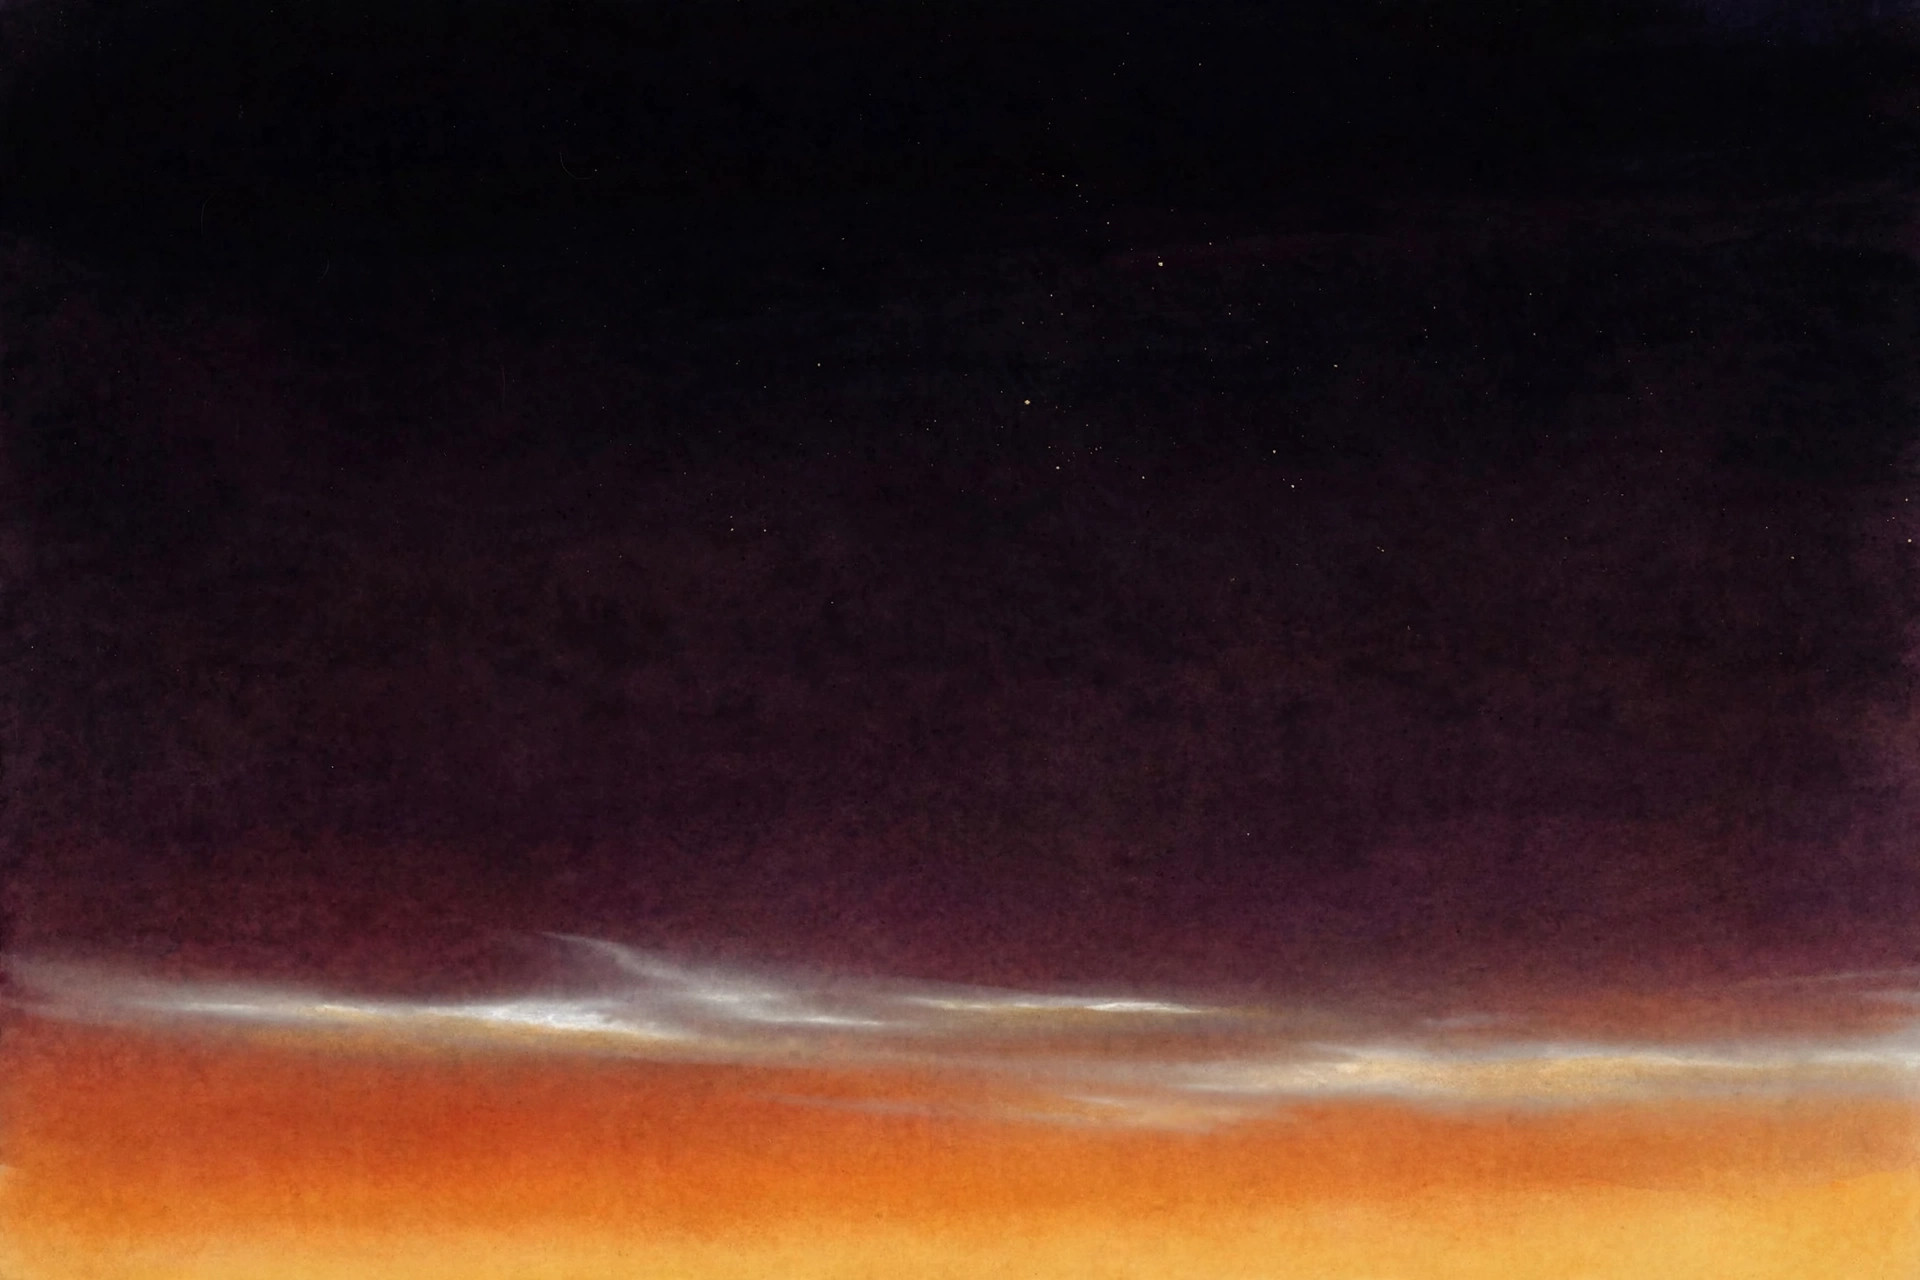
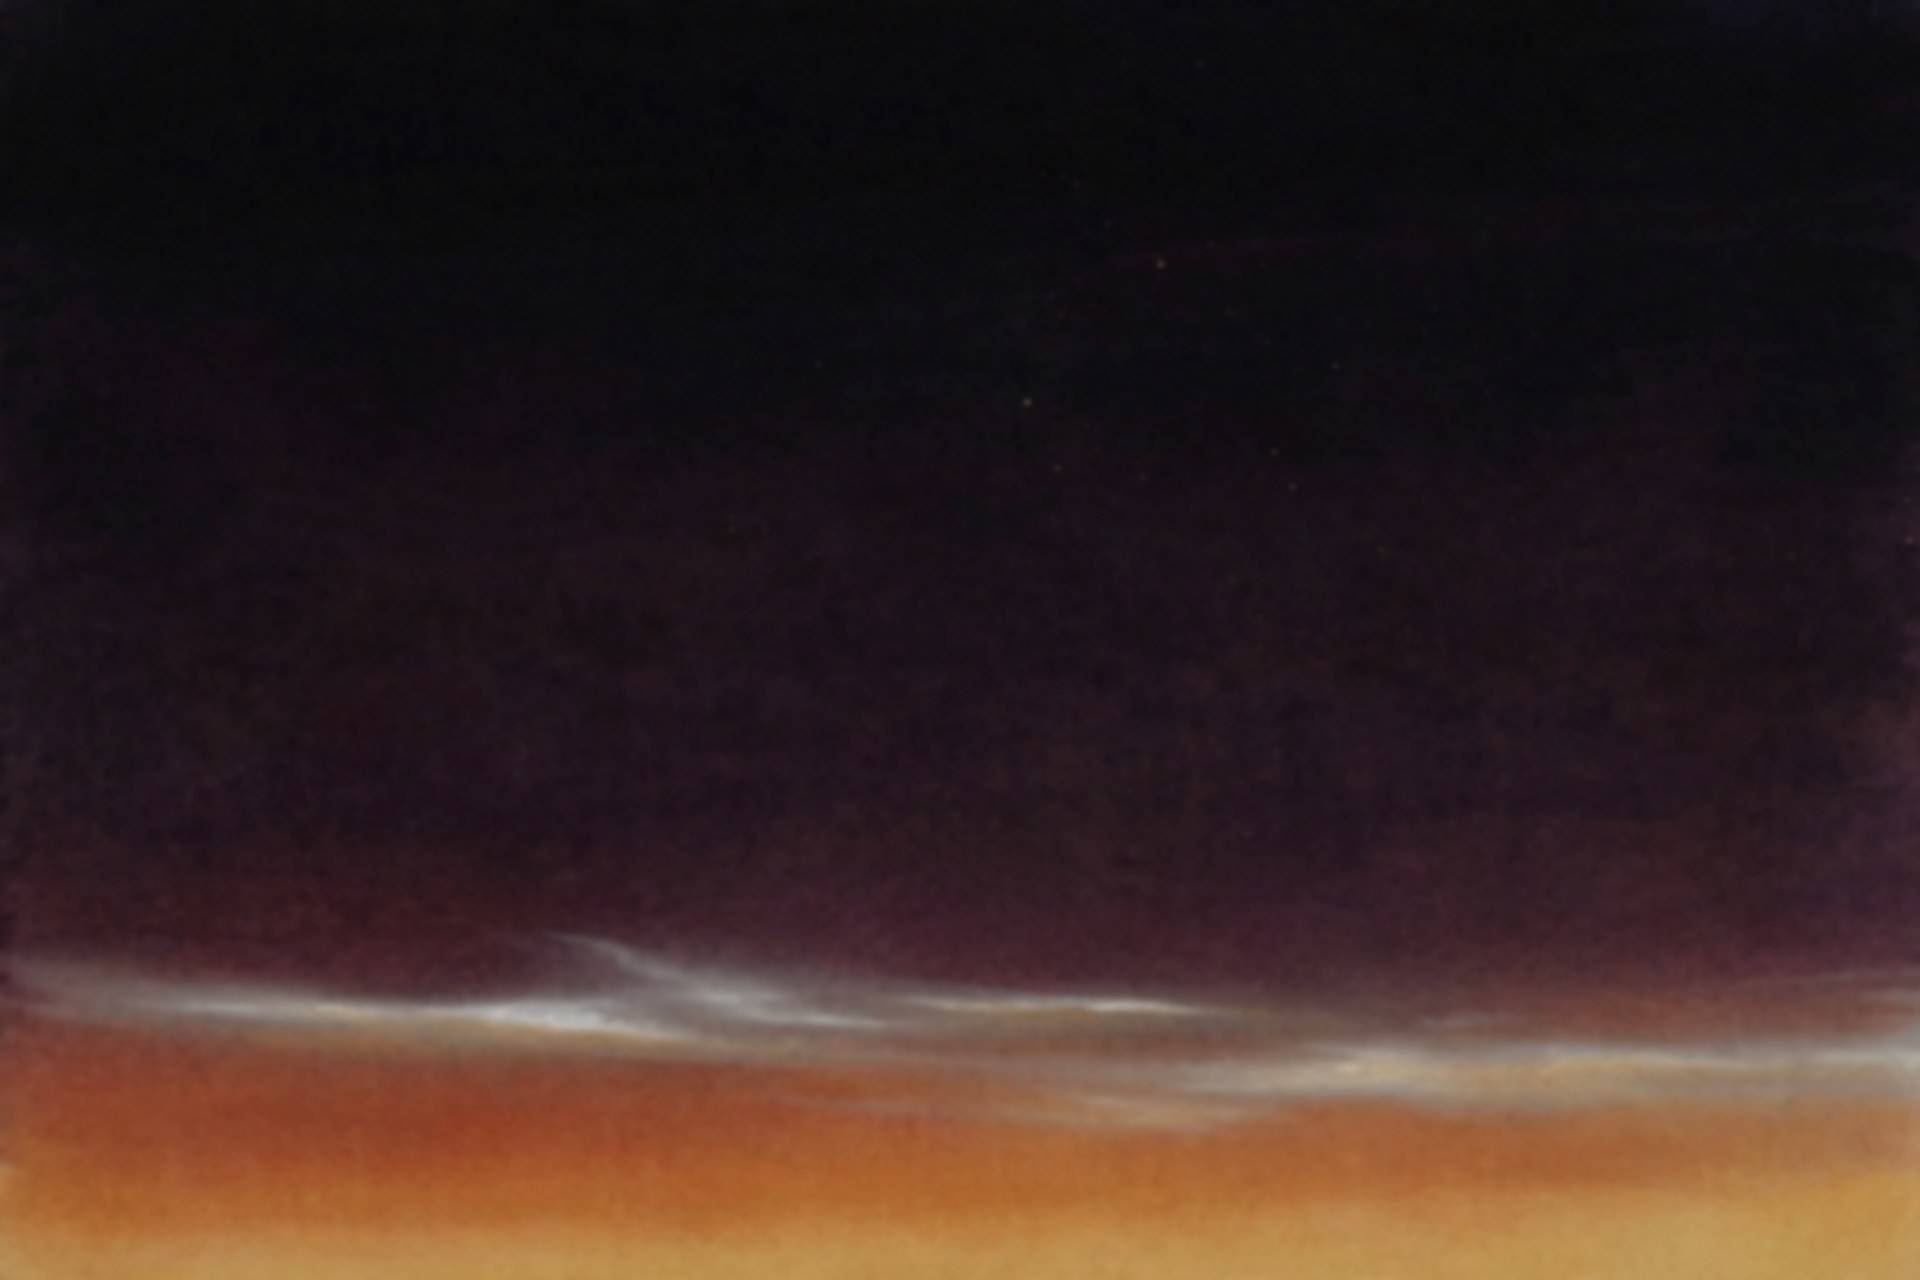
HP背景の調整: 霧感の強化・星の輝き・流れ星の追加

Changed region(s): [[0.0, 0.75, 1.0, 1.0]]

diff --git a/docs/links.html b/docs/links.html
@@ -34,7 +34,7 @@ body {
 }
 .bg { position:fixed; inset:0; z-index:0; pointer-events:none; }
 .bg-img {
-  position:absolute; inset:0;
+  position:absolute; inset:0; opacity:.85;
   background:url("bg.jpg") center bottom / cover no-repeat;
   animation:bgDrift 70s ease-in-out infinite alternate;
 }
@@ -44,8 +44,8 @@ body {
 }
 .bg-fog {
   position:absolute; left:-20%; right:-20%; bottom:-4%; height:34%;
-  background:radial-gradient(ellipse 60% 100% at 50% 100%, rgba(245,232,208,.14) 0%, rgba(224,128,48,.07) 45%, transparent 70%);
-  filter:blur(18px);
+  background:radial-gradient(ellipse 60% 100% at 50% 100%, rgba(245,232,208,.24) 0%, rgba(224,128,48,.12) 45%, transparent 70%);
+  filter:blur(22px);
   animation:fogDrift 26s ease-in-out infinite alternate;
   pointer-events:none;
 }
@@ -60,6 +60,30 @@ body {
 .bg-grad {
   position:absolute; inset:0;
   background:linear-gradient(180deg, rgba(7,5,8,.52) 0%, rgba(7,5,8,.28) 34%, rgba(7,5,8,.18) 62%, rgba(7,5,8,.5) 100%);
+}
+.bg-stars { position:absolute; inset:0; overflow:hidden; }
+.star {
+  position:absolute; border-radius:50%;
+  background:var(--gold);
+  box-shadow:0 0 6px 1px rgba(240,184,88,.5);
+  animation:twinkle var(--d,3s) ease-in-out infinite var(--del,0s);
+}
+@keyframes twinkle {
+  0%,100%{ opacity:var(--op,.5); transform:scale(1); }
+  50%     { opacity:1;           transform:scale(1.35); }
+}
+.meteor {
+  position:absolute; width:110px; height:2px; border-radius:2px;
+  background:linear-gradient(90deg, rgba(245,232,208,0) 0%, rgba(245,232,208,.85) 78%, #fff 100%);
+  filter:drop-shadow(0 0 6px rgba(240,184,88,.8));
+  transform:rotate(-32deg);
+  animation:meteorFly 1s ease-out forwards;
+  pointer-events:none;
+}
+@keyframes meteorFly {
+  0%   { opacity:0; transform:rotate(-32deg) translateX(0); }
+  12%  { opacity:.85; }
+  100% { opacity:0; transform:rotate(-32deg) translateX(300px); }
 }
 .bg-grain {
   position:absolute; inset:0;
@@ -135,7 +159,7 @@ footer a:hover { color:var(--cream); }
 </head>
 <body>
 
-<div class="bg"><div class="bg-img"></div><div class="bg-grad"></div><div class="bg-fog"></div><div class="bg-vignette"></div><div class="bg-grain"></div></div>
+<div class="bg"><div class="bg-img"></div><div class="bg-grad"></div><div class="bg-fog"></div><div class="bg-vignette"></div><div class="bg-stars" id="stars"></div><div class="bg-grain"></div></div>
 
 <main>
   <a class="logo" href="index.html">たまのためいき。</a>
@@ -182,5 +206,33 @@ footer a:hover { color:var(--cream); }
   <p>© たまのためいき。</p>
 </footer>
 
+<script>
+// ===== 星を生成 =====
+(function() {
+  const container = document.getElementById("stars");
+  for (let i = 0; i < 90; i++) {
+    const star = document.createElement("div");
+    star.className = "star";
+    const size = Math.random() * 2.2 + .8;
+    star.style.cssText =
+      "width:" + size + "px; height:" + size + "px;" +
+      "left:" + (Math.random()*100) + "%; top:" + (Math.random()*70) + "%;" +
+      "--d:" + (2+Math.random()*4) + "s; --del:" + (Math.random()*5) + "s;" +
+      "--op:" + (.35+Math.random()*.6) + ";";
+    container.appendChild(star);
+  }
+  // ===== 流れ星（たまに、さり気なく） =====
+  function meteor() {
+    const m = document.createElement("div");
+    m.className = "meteor";
+    m.style.left = (15 + Math.random()*55) + "%";
+    m.style.top  = (4 + Math.random()*26) + "%";
+    container.appendChild(m);
+    setTimeout(() => m.remove(), 1100);
+    setTimeout(meteor, 9000 + Math.random()*9000);
+  }
+  setTimeout(meteor, 5000 + Math.random()*4000);
+})();
+</script>
 </body>
 </html>

diff --git a/docs/index.html b/docs/index.html
@@ -55,7 +55,7 @@ body {
 /* ===== 固定背景 ===== */
 .bg { position:fixed; inset:0; z-index:0; pointer-events:none; }
 .bg-img {
-  position:absolute; inset:0;
+  position:absolute; inset:0; opacity:.85;
   background:url("bg.jpg") center bottom / cover no-repeat;
   animation:bgDrift 70s ease-in-out infinite alternate;
 }
@@ -65,8 +65,8 @@ body {
 }
 .bg-fog {
   position:absolute; left:-20%; right:-20%; bottom:-4%; height:34%;
-  background:radial-gradient(ellipse 60% 100% at 50% 100%, rgba(245,232,208,.14) 0%, rgba(224,128,48,.07) 45%, transparent 70%);
-  filter:blur(18px);
+  background:radial-gradient(ellipse 60% 100% at 50% 100%, rgba(245,232,208,.24) 0%, rgba(224,128,48,.12) 45%, transparent 70%);
+  filter:blur(22px);
   animation:fogDrift 26s ease-in-out infinite alternate;
   pointer-events:none;
 }
@@ -86,11 +86,25 @@ body {
 .star {
   position:absolute; border-radius:50%;
   background:var(--gold);
+  box-shadow:0 0 6px 1px rgba(240,184,88,.5);
   animation:twinkle var(--d,3s) ease-in-out infinite var(--del,0s);
 }
 @keyframes twinkle {
-  0%,100%{ opacity:var(--op,.4); transform:scale(1); }
-  50%     { opacity:1;           transform:scale(1.3); }
+  0%,100%{ opacity:var(--op,.5); transform:scale(1); }
+  50%     { opacity:1;           transform:scale(1.35); }
+}
+.meteor {
+  position:absolute; width:110px; height:2px; border-radius:2px;
+  background:linear-gradient(90deg, rgba(245,232,208,0) 0%, rgba(245,232,208,.85) 78%, #fff 100%);
+  filter:drop-shadow(0 0 6px rgba(240,184,88,.8));
+  transform:rotate(-32deg);
+  animation:meteorFly 1s ease-out forwards;
+  pointer-events:none;
+}
+@keyframes meteorFly {
+  0%   { opacity:0; transform:rotate(-32deg) translateX(0); }
+  12%  { opacity:.85; }
+  100% { opacity:0; transform:rotate(-32deg) translateX(300px); }
 }
 .bg-grain {
   position:absolute; inset:0;
@@ -612,20 +626,30 @@ document.addEventListener("DOMContentLoaded", () => {
   }, 800);
 });
 
-// ===== 星を生成 =====
 (function() {
   const container = document.getElementById("stars");
-  for (let i = 0; i < 80; i++) {
+  for (let i = 0; i < 90; i++) {
     const star = document.createElement("div");
     star.className = "star";
-    const size = Math.random() * 2 + .5;
+    const size = Math.random() * 2.2 + .8;
     star.style.cssText =
       "width:" + size + "px; height:" + size + "px;" +
-      "left:" + (Math.random()*100) + "%; top:" + (Math.random()*100) + "%;" +
+      "left:" + (Math.random()*100) + "%; top:" + (Math.random()*70) + "%;" +
       "--d:" + (2+Math.random()*4) + "s; --del:" + (Math.random()*5) + "s;" +
-      "--op:" + (.15+Math.random()*.5) + ";";
+      "--op:" + (.35+Math.random()*.6) + ";";
     container.appendChild(star);
   }
+  // ===== 流れ星（たまに、さり気なく） =====
+  function meteor() {
+    const m = document.createElement("div");
+    m.className = "meteor";
+    m.style.left = (15 + Math.random()*55) + "%";
+    m.style.top  = (4 + Math.random()*26) + "%";
+    container.appendChild(m);
+    setTimeout(() => m.remove(), 1100);
+    setTimeout(meteor, 9000 + Math.random()*9000);
+  }
+  setTimeout(meteor, 5000 + Math.random()*4000);
 })();
 
 // ===== ナビのスクロール制御 =====
